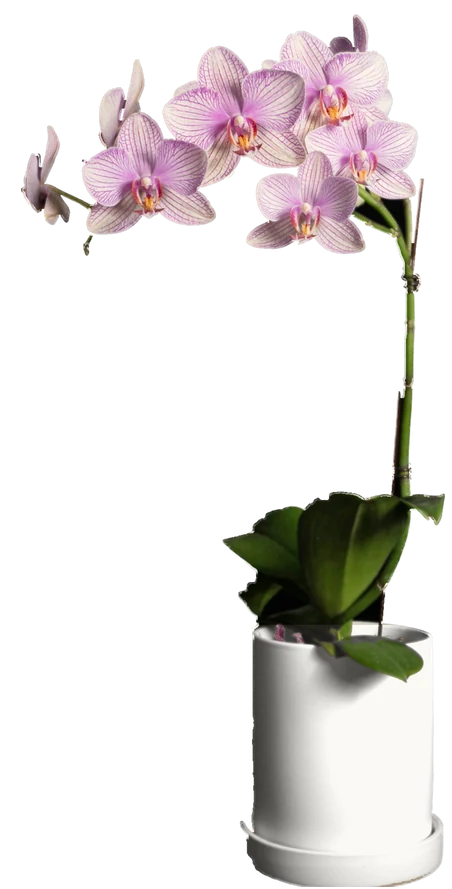
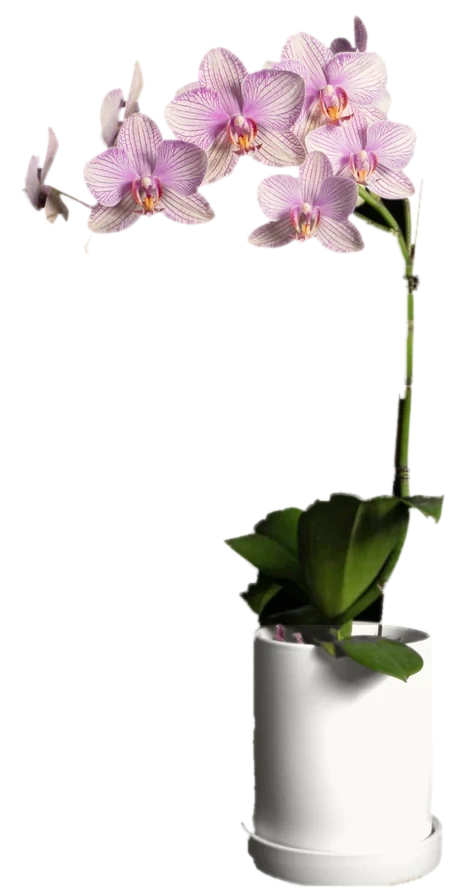
Orkide, yapay zekâ kutusu ve PC ızgarası görselleri güncellendi

diff --git a/src/components/gameplay/AiRun.module.css b/src/components/gameplay/AiRun.module.css
@@ -1,4 +1,4 @@
-/* The AI box runs on a dark console, apart from the paper CV beside it (GameplayScreen.module.css: .systemBox) */
+/* The AI box is a paper portal module with a blue system accent (GameplayScreen.module.css: .systemBox) */
 
 .run {
   display: flex;
@@ -11,17 +11,17 @@
   display: flex;
   justify-content: space-between;
   font-size: calc(12px * var(--ts, 1));
-  color: #c9d6ea;
+  color: var(--text-dim);
 }
 
 .progressHead .mono {
-  color: #8fb4e3;
+  color: var(--blue-ink);
 }
 
 .track {
   height: 4px;
   border-radius: 999px;
-  background: rgba(143, 180, 227, 0.16);
+  background: rgba(76, 127, 176, 0.14);
   overflow: hidden;
 }
 
@@ -29,8 +29,7 @@
   display: block;
   height: 100%;
   border-radius: inherit;
-  background: linear-gradient(90deg, #4c7fb0, #8fd0ff);
-  box-shadow: 0 0 8px rgba(143, 208, 255, 0.6);
+  background: linear-gradient(90deg, var(--blue-ink), var(--blue));
   transition: width 0.08s linear;
 }
 
@@ -57,31 +56,32 @@
   height: 12px;
   flex-shrink: 0;
   border-radius: 50%;
-  border: 1.5px solid rgba(143, 180, 227, 0.35);
+  border: 1.5px solid rgba(76, 127, 176, 0.35);
 }
 
 .waiting {
-  color: rgba(201, 214, 234, 0.4);
+  color: rgba(34, 31, 27, 0.35);
 }
 
 .active {
-  color: #e6eefa;
+  color: var(--ink);
+  font-weight: 600;
 }
 
 .active .mark {
   border-color: transparent;
-  border-top-color: #8fd0ff;
-  border-right-color: #8fd0ff;
+  border-top-color: var(--blue);
+  border-right-color: var(--blue);
   animation: spin 0.8s linear infinite;
 }
 
 .done {
-  color: #9fb3cf;
+  color: var(--text-dim);
 }
 
 .done .mark {
-  border-color: #5aa77f;
-  background: #5aa77f;
+  border-color: var(--teal);
+  background: var(--teal);
 }
 
 .done .mark::after {
@@ -91,7 +91,7 @@
   top: 1.5px;
   width: 3px;
   height: 6px;
-  border: solid #0f1520;
+  border: solid #fff;
   border-width: 0 1.5px 1.5px 0;
   transform: rotate(45deg);
 }
@@ -101,8 +101,9 @@
   padding: 7px 9px;
   min-height: 3.9em;
   border-radius: 7px;
-  background: rgba(0, 0, 0, 0.32);
-  color: #7fd1a6;
+  background: var(--paper-muted);
+  border: 1px solid var(--border-muted);
+  color: var(--text-dim);
   font-size: calc(10.5px * var(--ts, 1));
   line-height: 1.45;
   white-space: pre-wrap;
@@ -115,7 +116,7 @@
   height: 1em;
   margin-left: 2px;
   vertical-align: -2px;
-  background: #7fd1a6;
+  background: var(--blue);
   animation: blink 1s steps(2) infinite;
 }
 
@@ -140,21 +141,21 @@
   margin-top: 10px;
   padding: 10px 12px;
   border-radius: 10px;
-  background: rgba(255, 255, 255, 0.04);
-  border: 1px solid rgba(143, 180, 227, 0.16);
-  --tone: #8fd0ff;
+  background: #fff;
+  border: 1px solid var(--border-muted);
+  --tone: var(--blue);
 }
 
 .high {
-  --tone: #5fc28f;
+  --tone: var(--teal);
 }
 
 .mid {
-  --tone: #e0b04a;
+  --tone: #b5860f;
 }
 
 .low {
-  --tone: #e06a55;
+  --tone: var(--red);
 }
 
 .dial {
@@ -166,7 +167,7 @@
 
 .dialTrack {
   fill: none;
-  stroke: rgba(143, 180, 227, 0.16);
+  stroke: rgba(34, 31, 27, 0.08);
   stroke-width: 5;
 }
 
@@ -175,13 +176,12 @@
   stroke: var(--tone);
   stroke-width: 5;
   stroke-linecap: round;
-  filter: drop-shadow(0 0 3px var(--tone));
 }
 
 .dialText {
   transform: rotate(90deg);
   transform-origin: 26px 26px;
-  fill: #f2f6fc;
+  fill: var(--ink);
   font: 700 15px var(--font-mono);
 }
 
@@ -196,7 +196,7 @@
   font-size: calc(10.5px * var(--ts, 1));
   letter-spacing: 0.4px;
   text-transform: uppercase;
-  color: rgba(201, 214, 234, 0.6);
+  color: var(--text-muted);
 }
 
 .resultText b {
@@ -210,14 +210,14 @@
   padding: 0;
   border: 0;
   background: none;
-  color: #8fb4e3;
+  color: var(--blue-ink);
   font: 600 calc(12px * var(--ts, 1)) var(--font-body);
   cursor: pointer;
 }
 
 .reportButton:hover,
 .reportButton:focus-visible {
-  color: #cfe2fb;
+  color: var(--blue);
   text-decoration: underline;
 }
 

diff --git a/src/components/desk/OrchidArt.tsx b/src/components/desk/OrchidArt.tsx
@@ -47,8 +47,12 @@ const PETALS: [number, number, number][] = [
   [14, 97, -20],
 ];
 
-/** The window is to the left: the plant throws a soft shadow to the right, onto the wall. */
-const CAST = 'drop-shadow(5px 3px 4px rgba(45, 28, 12, 0.22))';
+/**
+ * Office light on a studio photo: a touch warmer and softer so it sits in the room, and the
+ * window to the left throws a soft shadow to the right — a close contact one and a wide one on
+ * the wall behind.
+ */
+const CAST = 'sepia(0.08) saturate(0.92) contrast(0.96) drop-shadow(2px 1px 1.5px rgba(45, 28, 12, 0.28)) drop-shadow(14px 6px 10px rgba(45, 28, 12, 0.16))';
 const withCast = (style: CSSProperties): CSSProperties => ({ ...style, filter: [style.filter, CAST].filter(Boolean).join(' ') });
 
 const IMG: CSSProperties = {
@@ -89,14 +93,20 @@ export function OrchidArt({ state }: { state: FlowerState }) {
       />
       {/* the gift card on its plastic fork */}
       <svg viewBox="0 0 100 100" preserveAspectRatio="none" style={{ position: 'absolute', inset: 0, width: '100%', height: '100%' }} aria-hidden="true">
-        <line x1={70} y1={71.5} x2={64} y2={64} stroke="#d8d8d8" strokeWidth={0.7} />
-        <g transform="rotate(-8 60 62)">
-          <rect x={50} y={58} width={20} height={7} rx={0.6} fill="#fffdf7" stroke="rgba(0,0,0,0.12)" strokeWidth={0.2} />
-          <text x={60} y={62.8} textAnchor="middle" fontSize={3.2} fill="#8a6a2b" fontStyle="italic" fontFamily="Fraunces, serif">
+        <defs>
+          <linearGradient id="orchidCard" x1="0" y1="0" x2="0" y2="1">
+            <stop offset="0" stopColor="#fffdf8" />
+            <stop offset="1" stopColor="#efe8da" />
+          </linearGradient>
+        </defs>
+        <line x1={68.5} y1={73} x2={63} y2={65.5} stroke="#bfc3c6" strokeWidth={0.45} strokeLinecap="round" />
+        <g transform="rotate(-7 60 62)">
+          <rect x={52.6} y={59.4} width={15} height={5.6} rx={0.3} fill="rgba(40,24,10,0.22)" transform="translate(0.5 0.45)" />
+          <rect x={52.6} y={59.4} width={15} height={5.6} rx={0.3} fill="url(#orchidCard)" />
+          <text x={60.1} y={63.1} textAnchor="middle" fontSize={2.4} fill="#6d5a3a" fontStyle="italic" fontFamily="Fraunces, serif">
             Hoş geldin
           </text>
         </g>
-        <rect x={55.6} y={76} width={40} height={2.2} fill="#c9a227" opacity={0.95} />
       </svg>
     </div>
   );

diff --git a/src/components/pc/PcDesktop.module.css b/src/components/pc/PcDesktop.module.css
@@ -49,7 +49,7 @@
   left: 22px;
   display: grid;
   /* every icon gets the same cell, whatever the length of its name: an even column */
-  grid-auto-rows: 100px;
+  grid-auto-rows: minmax(100px, 1fr);
   gap: 8px;
   width: 100px;
 }
